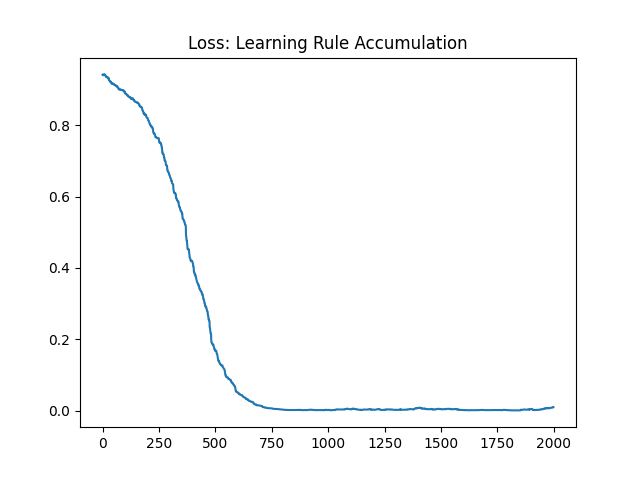
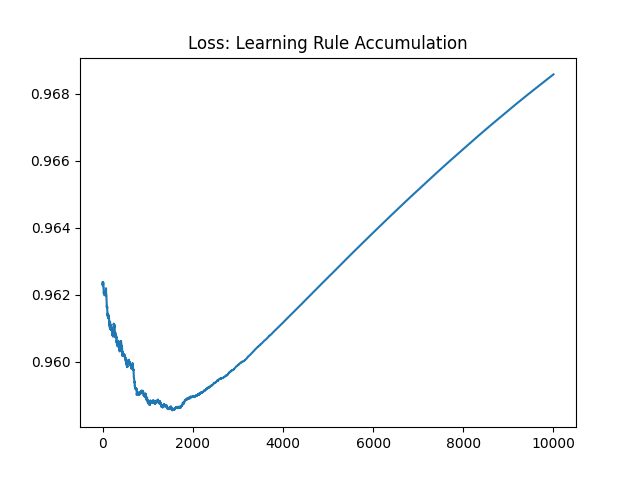
3/11 meeting code

diff --git a/oja/oja_powerseries.py b/oja/oja_powerseries.py
@@ -101,7 +101,7 @@ def fit_weights(X, Y):
     # Already have intercept from power series transform
     #reg = LinearRegression(fit_intercept=False)
     #reg = LinearRegression(fit_intercept=True) # now we have intercept
-    reg = Lasso(alpha=5e-2, fit_intercept=False)
+    reg = Lasso(alpha=1e-1, fit_intercept=False)
     reg.fit(X, Y)
 
     return reg
@@ -112,11 +112,11 @@ def prepare_train_data(alphas, num_intervals=5, epoch_subset=None):
     train_samples = []
     train_labels = []
     manual_int = n_train
-    #b = torch.arange(manual_int)
-    #num_intervals = manual_int-1
+    b = torch.arange(manual_int)
+    num_intervals = manual_int-1
     for i in range(num_intervals):
-        #start, end = b[i], b[i+1]
-        start, end = loss_intervals[i]
+        start, end = b[i], b[i+1]
+        #start, end = loss_intervals[i]
         pre, post, W0, Wf = load_features(start, end)
         features = prepare_features(pre, post, W0)
         features = alphas[start] * features
@@ -145,29 +145,39 @@ def prepare_train_data(alphas, num_intervals=5, epoch_subset=None):
     normed_Y = (all_labels - Y_mu) / (Y_std + eps)
     #normed_Y = all_labels
 
-    return loss_intervals, normed_samples.detach().cpu().numpy(), (normed_Y.detach().cpu().numpy(), Y_mu, Y_std)
+    return loss_intervals, (normed_samples.detach().cpu().numpy(), samples_mu, samples_std), (normed_Y.detach().cpu().numpy(), Y_mu, Y_std)
 
 
-def accum_rule(Y_mu, Y_std, num_steps=100):
+def accum_rule(reg, X_mu, X_std, Y_mu, Y_std, num_steps=100):
     # Batches to draw from normal dist to (noisily) estimate PC1
-    B = 128
+    B = 1024
     c = torch.cov(r_dist.sample((B,)).t())
     _, eigvecs = torch.linalg.eigh(c)
     # eigvals sorted in ascending order so take last one
     pc1 = eigvecs[:, -1]
     norm_pc1 = pc1 / torch.linalg.vector_norm(pc1)
+
+    eta = 5e-1
     W = torch.normal(torch.zeros(N), torch.ones(N))
+    # TODO do we need to change how we z-score
+    # We also 
+    alphas_accum = alpha_start*torch.exp(torch.arange(num_steps) * (np.log(alpha_end / alpha_start) / (n_train-1)))
 
     losses = torch.empty((num_steps,))
     for i in range(num_steps):
         r_pre = r_dist.sample()
         r_post = W.t() @ r_pre
-        X = prepare_features(r_pre, r_post, W)
-        delta_W = torch.from_numpy(reg.predict(X.detach().cpu().numpy())) * Y_std + Y_mu
-        W += delta_W
+        features = prepare_features(r_pre, r_post, W)
+        # alphas are same as training so we can z-score after multiplying by alpha
+        features = alphas_accum[i] * features
+        # LR doesn't decrease so converges faster than gradient descent, but less stable
+        features = (features - X_mu) / (X_std + eps)
         loss = 1-torch.abs(W.t() @ norm_pc1 / torch.linalg.vector_norm(W))
         print(f"Iter {i}: {loss.item()}")
         losses[i] = loss
+        
+        delta_W = torch.from_numpy(reg.predict(features.detach().cpu().numpy())) * Y_std + Y_mu
+        W += eta * delta_W
 
     return losses
 
@@ -192,8 +202,9 @@ def compare_coefs(degree, numvars, coef):
     plt.show()
 
 
-loss_intervals, features, label_data = prepare_train_data(alphas, num_intervals=50, epoch_subset=None)
-labels, mu, std = label_data
+loss_intervals, feature_data, label_data = prepare_train_data(alphas, num_intervals=50, epoch_subset=None)
+features, X_mu, X_std = feature_data
+labels, Y_mu, Y_std = label_data
 #print(f"Loss intervals: {loss_intervals}")
 reg = fit_weights(features, labels)
 print(f"Coefs: {reg.coef_}")
@@ -202,7 +213,7 @@ compare_coefs(degree=degree, numvars=3, coef=reg.coef_)
 plt.savefig("coefs.png")
 plt.close()
 
-losses = accum_rule(mu, std, num_steps=n_train)
+losses = accum_rule(reg, X_mu, X_std, Y_mu, Y_std, num_steps=n_train*5)
 plt.plot(losses)
 plt.title("Loss: Learning Rule Accumulation")
 plt.savefig("accum_rule.png")

diff --git a/oja/oja_groundtruth.py b/oja/oja_groundtruth.py
@@ -25,12 +25,6 @@ alphas = alpha_start*torch.exp(torch.arange(n_train) * (np.log(alpha_end / alpha
 #alphas = ((alpha_end - alpha_start) / n_train) * torch.arange(n_train) + alpha_start
 optim = torch.optim.Adam([W], lr=lr)
 # Batches to draw from normal dist to (noisily) estimate PC1
-B = 128
-c = torch.cov(r_dist.sample((B,)).t())
-eigvals, eigvecs = torch.linalg.eigh(c)
-# eigvals sorted in ascending order so take last one
-pc1 = eigvecs[:, -1]
-norm_pc1 = pc1 / torch.linalg.vector_norm(pc1)
 losses = torch.empty((n_train,))
 W_val = torch.empty(n_train, N)
 pre = torch.empty((n_train, N))
@@ -39,6 +33,13 @@ for i in range(n_train):
     r_pre = r_dist.sample()
     r_post = W.t() @ r_pre
     
+    B = 512
+    c = torch.cov(r_dist.sample((B,)).t())
+    eigvals, eigvecs = torch.linalg.eigh(c)
+    # eigvals sorted in ascending order so take last one
+    pc1 = eigvecs[:, -1]
+    norm_pc1 = pc1 / torch.linalg.vector_norm(pc1)
+
     loss = 1-torch.abs(W.t() @ norm_pc1 / torch.linalg.vector_norm(W))
     print(f"Iter {i}: {loss.item()}")
     losses[i] = loss.item()
